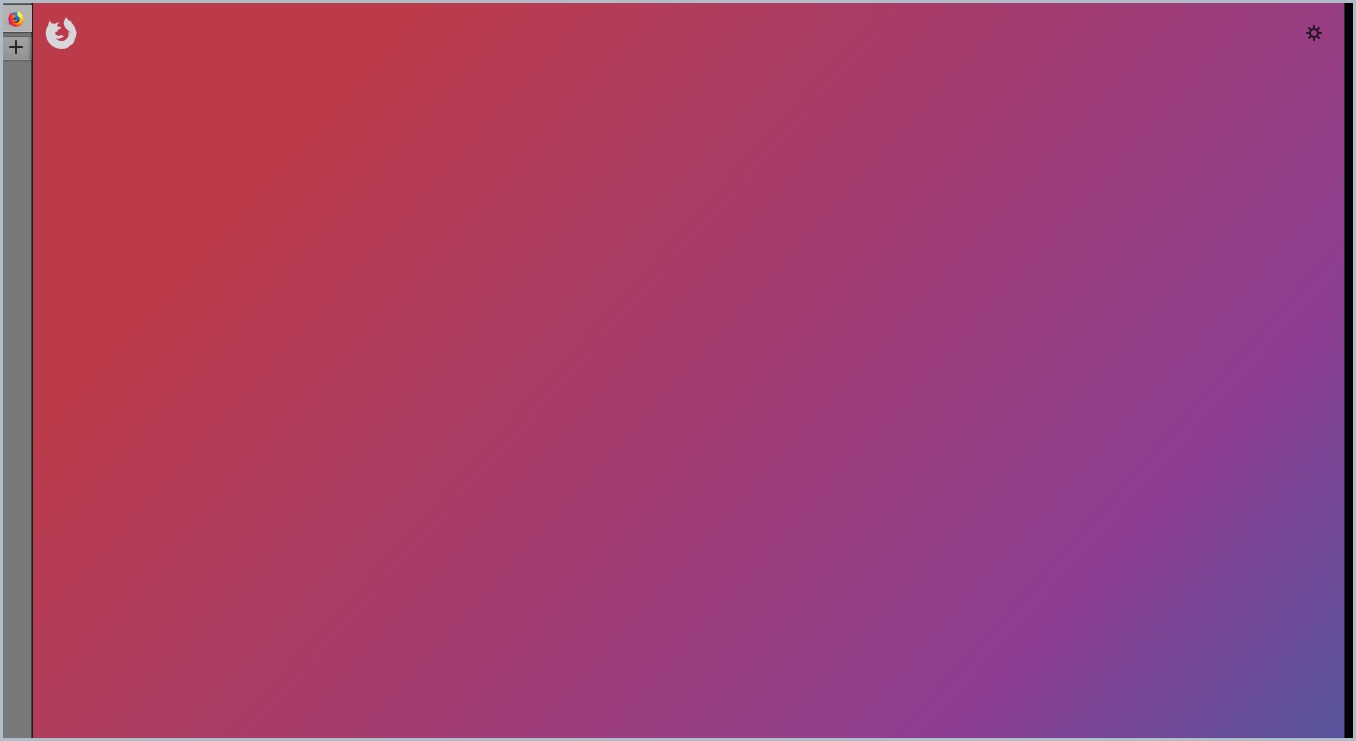
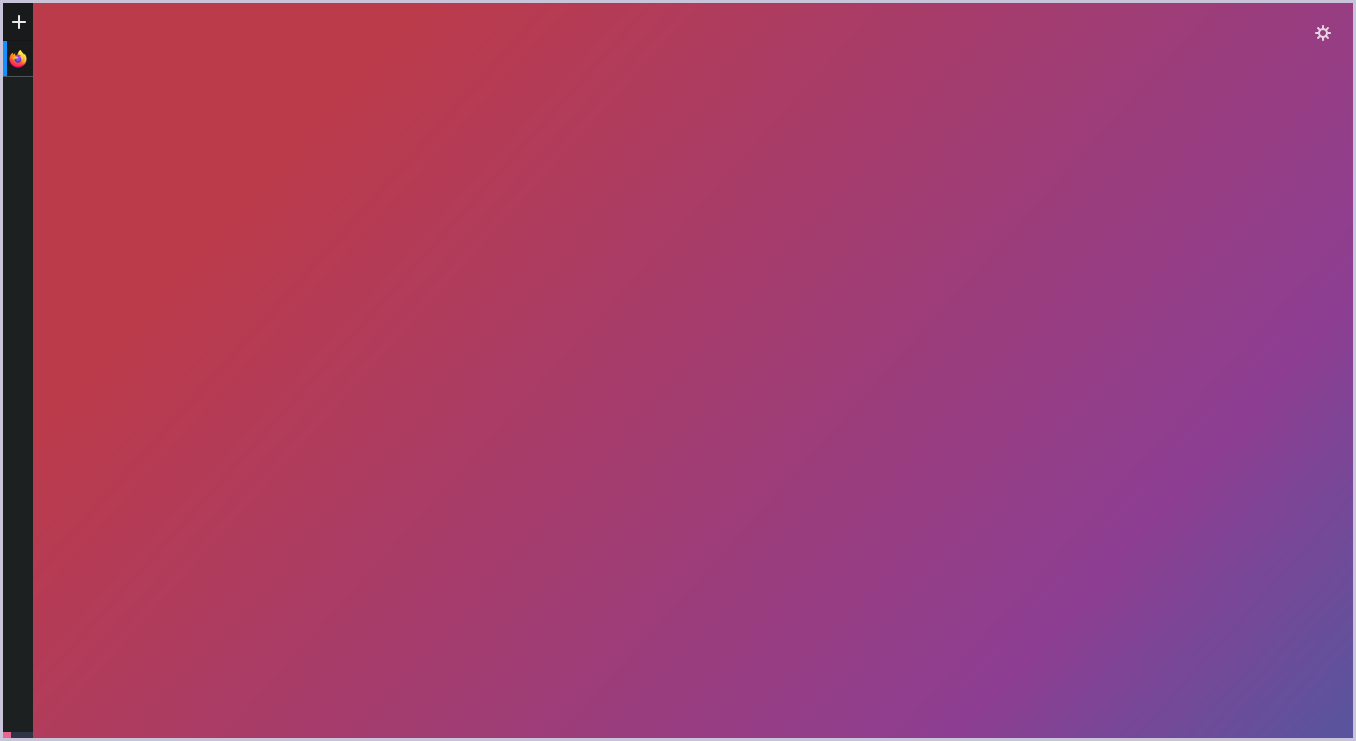
some firefox changes

Changed region(s): [[0.0, 0.0, 1.0, 1.0]]

diff --git a/firefox/userChrome.css b/firefox/userChrome.css
@@ -1,13 +1,15 @@
-@namespace url("http://www.mozilla.org/keymaster/gatekeeper/there.is.only.xul");
-
-/* Hide main tabs toolbar */
+@import url('file:///home/lll2yu/.cache/wal/colors.css');
 
 #main-window[tabsintitlebar="true"]:not([extradragspace="true"]) #TabsToolbar {
   opacity: 0;
   pointer-events: none;
 }
 
-#main-window:not([tabsintitlebar="true"]) #TabsToolbar {
+browser {
+  background-color: var(--color0) !important;
+}
+
+#main-window:not([tabsintitlebar="false"]) #TabsToolbar {
   visibility: collapse !important;
 }
 
@@ -20,14 +22,14 @@
 
 /* Hide splitter, when using Tree Style Tab. */
 
-#sidebar-box[sidebarcommand="treestyletab_piro_sakura_ne_jp-sidebar-action"] + #sidebar-splitter {
+#sidebar-box + #sidebar-splitter {
   display: none !important;
 }
 
 /* Hide sidebar header, when using Tree Style Tab. */
 
-#sidebar-box[sidebarcommand="treestyletab_piro_sakura_ne_jp-sidebar-action"] #sidebar-header {
-  visibility: collapse;
+#sidebar-header {
+  display: none;
 }
 
 /* Shrink sidebar until hovered, when using Tree Style Tab. */
@@ -37,59 +39,96 @@
   --wide-tab-width: 200px;
 }
 
-#sidebar-box:not([sidebarcommand="treestyletab_piro_sakura_ne_jp-sidebar-action"]) {
-  min-width: var(--wide-tab-width) !important;
-  max-width: none !important;
-}
-
-#sidebar-box[sidebarcommand="treestyletab_piro_sakura_ne_jp-sidebar-action"] {
+#sidebar-box {
+  overflow: hidden;
   position: relative !important;
-  transition: all 100ms !important;
+  transition: all 0.2s ease !important;
   min-width: var(--thin-tab-width) !important;
   max-width: var(--thin-tab-width) !important;
+  z-index: 2;
 }
 
-#sidebar-box[sidebarcommand="treestyletab_piro_sakura_ne_jp-sidebar-action"]:hover {
+#sidebar-box:hover {
   transition: all 200ms !important;
   min-width: var(--wide-tab-width) !important;
   max-width: var(--wide-tab-width) !important;
   margin-right: calc((var(--wide-tab-width) - var(--thin-tab-width)) * -1) !important;
 }
 
-statuspanel[type="overLink"] {
-  display: none !important;
+#main-window[inFullscreen][inDOMFullscreen] #appcontent {
+  margin-left: 0;
 }
 
-#TabsToolbar {
-  visibility: collapse;
+#main-window[inFullscreen] #sidebar {
+  height: 100vh;
 }
 
-:root:not([customizing]) #navigator-toolbox:not(:hover):not(:focus-within) {
-  max-height: 0;
-  min-height: calc(0px);
+#browser vbox#appcontent tabbrowser,
+#content,
+#tabbrowser-tabpanels,
+browser[type=content-primary],
+browser[type=content] > html {
+  background: var(--color0) !important;
 }
 
-:root:not([customizing]) #navigator-toolbox:not(:hover):not(:focus-within) #nav-bar {
-  max-height: 0;
-  min-height: 0!important;
-  --tridactyl-auto-show-zone: 10px;
-  margin-bottom: calc(-1 * var(--tridactyl-auto-show-zone));
+/* Source file https://github.com/MrOtherGuy/firefox-csshacks/tree/master/chrome/autohide_toolbox.css made available under Mozilla Public License v. 2.0
+See the above repository for updates as well as full license text. */
+
+/* Hide the whole toolbar area unless urlbar is focused or cursor is over the toolbar */
+
+@media (-moz-os-version: windows-win10){
+
+  :root[tabsintitlebar][sizemode="maximized"]:not([inDOMFullscreen]) > body > box{ margin-top: 10px !important; }
+  :root[tabsintitlebar][sizemode="maximized"] #navigator-toolbox{ margin-top: -2px }
+
+  @media screen and (min-resolution: 1.25dppx){
+    :root[tabsintitlebar][sizemode="maximized"]:not([inDOMFullscreen]) > body > box{ margin-top: 9px !important; }
+  }
+  @media screen and (min-resolution: 1.5dppx){
+    :root[tabsintitlebar][sizemode="maximized"]:not([inDOMFullscreen]) > body > box{ margin-top: 8px !important; }
+    :root[tabsintitlebar][sizemode="maximized"] #navigator-toolbox{ margin-top: -1px }
+  }
+  @media screen and (min-resolution: 2dppx){
+    :root[tabsintitlebar][sizemode="maximized"]:not([inDOMFullscreen]) > body > box{ margin-top: 7px !important; }
+  }
+}
+
+:root[sizemode="fullscreen"]{ margin-top: 0px !important; }
+
+#navigator-toolbox{
+  position: fixed !important;
+  display: block;
+  background-color: var(--lwt-accent-color,black) !important;
+  transition: transform 82ms 33ms linear, opacity 82ms 33ms linear !important;
+  transform-origin: top;
+  line-height: 0;
+  z-index: 1;
+  pointer-events: none;
+}
+
+#navigator-toolbox > *{ line-height: normal; pointer-events: auto }
+
+#navigator-toolbox,
+#navigator-toolbox > *{
+  width: 100vw;
+  -moz-appearance: none !important;
+}
+
+#navigator-toolbox:not(:focus-within):not(:hover){
+  transform: rotateX(86deg); /* This may need to be lower in osx - like 75 or so */
   opacity: 0;
 }
 
-#navigator-toolbox::after {
-  display: none !important;
+:root[sizemode="maximized"] #navigator-toolbox:not(:focus-within):not(:hover){ transform: rotateX(89.5deg) }
+
+/* Don't apply transform before window has been fully created */
+:root:not([sessionrestored]) #navigator-toolbox{ transform:none !important }
+
+:root[customizing] #navigator-toolbox{
+  position: relative !important;
+  transform: none !important;
+  opacity: 1 !important;
 }
 
-#titlebar {
-  display: none !important;
-}
-
-#navigator-toolbox:not(:hover):not(:focus-within) #toolbar-menubar > * {
-  background-color: rgb(232, 232, 231);
-}
-
-statuspanel[type="overLink"],
-#statuspanel[type="overLink"] {
-  display: none !important;
-}
+#navigator-toolbox[inFullscreen] > #PersonalToolbar,
+#PersonalToolbar[collapsed="true"]{ display: none }

diff --git a/firefox/userContent.css b/firefox/userContent.css
@@ -1,11 +1,45 @@
+@namespace url("http://www.w3.org/1999/xhtml");
+@import url('file:///home/lll2yu/.cache/wal/colors.css');
+:root{
+    scrollbar-color: #E8678E #2E3645 !important;
+    scrollbar-width: thin !important;
+}
+* {
+    scrollbar-width: thin !important;
+}  
+
 @-moz-document regexp("moz-extension://.+/resources/group-tab.html.*") {
   :root {
     background: red !important;
   }
 }
 
+body.loaded.dark {
+	  color: var(--foreground) !important;
+	    background-color: var(--background) !important;
+	    
+}
+
+body.loaded.dark h1 {
+	  color: var(--color1) !important;
+	  
+}
+
+body.loaded.dark h2, body.loaded.dark h3, body.loaded.dark h4, body.loaded.dark h5, body.loaded.dark h6 {
+	  color: var(--color4) !important;
+	  
+}
+
+body.loaded.dark strong {
+	  color: var(--color5) !important;
+	  
+}
+
 @-moz-document url("about:home"),
-url("about:newtab") {
+url("about:newtab"),
+url(moz-extension://e9518bb3-7ffc-4260-bdc8-c62be69fbc68/redirect.html), 
+url(moz-extension://67af9bc8-7ba8-4477-9afa-924b0139681a/html/newtab.html)
+{
     .search-wrapper,
     .tile {
         box-shadow: 0 19px 38px rgba(0, 0, 0, 0.30), 0 15px 12px rgba(0, 0, 0, 0.22) !important;
@@ -14,7 +48,7 @@ url("about:newtab") {
         border-radius: 15px !important;
         box-shadow: 0 19px 38px rgba(0, 0, 0, 0.30), 0 15px 12px rgba(0, 0, 0, 0.22) !important;
     }
-    html {
+    html:not(#ublock0-epicker), html:not(#ublock0-epicker) body, #newtab-customize-overlay {
         height: 100% !important
     }
     body {
@@ -37,3 +71,5 @@ url("about:newtab") {
         color: white !important;
     }
 }    
+
+

diff --git a/.config/spicetify/Themes/Pywal/user.css b/.config/spicetify/Themes/Pywal/user.css
@@ -29,8 +29,8 @@
 
 /*Thinner scrollbar*/
 ::-webkit-scrollbar {
-	height: 6px !important;
-	width: 6px !important;
+	height: 0px !important;
+	width: 0px !important;
 	background-color: transparent;
 }
 

diff --git a/README.md b/README.md
@@ -18,37 +18,8 @@
 #### Desktop
 ![](https://github.com/lll2yu/dotfiles-naavi/raw/master/screenshot.png)
 
-[wallpaper](https://whvn.cc/665945)
-
 #### Firefox
 ![](https://github.com/lll2yu/dotfiles-naavi/raw/master/firefox.png)
-- [TreeStyleTab](https://addons.mozilla.org/en-US/firefox/addon/tree-style-tab/) and
+- [Tab Center Reborn](https://framagit.org/ariasuni/tabcenter-reborn) and
 - [Tridactyl](https://addons.mozilla.org/en-US/firefox/addon/tridactyl-vim/?src=external-github) Extensions are used for this setup.
 
-#### Vim
-![](https://github.com/lll2yu/dotfiles-naavi/raw/master/vim.png)
-
-## Details
-- **Operating System :** Arch Linux
-- **Graphical Server :** Xorg
-- **Video Driver :** nvidia-dkms
-- **Display Manager :** [ly](https://github.com/cylgom/ly)
-- **Window Manager** : Bspwm
-- **Panel :** Polybar
-- **Wallpaper Handler :** feh
-- **Program Launcher** : Rofi
-- **File Manager :** ranger
-- **Image Viewer :** sxiv
-- **Screenshooter :** maim
-- **Web Browser :** Firefox
-- **Terminal :** URxvt
-- **Terminal Font :** Fira Code
-- **CLI Text Editor :** Neovim
-- **CLI Music Player :** Moc
-- **Multimedia Player :** Mpv
-- **PDF Reader :** Zathura
-- **GTK Theme :** Wal (with colorsheme generated using pywal)
-- **GTK Icons :** Flat Remix
-- **GTK Font :** Fira Sans
-- **CLI Shell :** Zsh
-- **Notification Daemon :** Dunst

diff --git a/.config/spicetify/Themes/Pywal/Readme.md b/.config/spicetify/Themes/Pywal/Readme.md
@@ -1,0 +1,15 @@
+# Pywal Theme 
+
+{based off of [Nord](https://github.com/morpheusthewhite/spicetify-themes/tree/master/Nord) Theme in spicetify-themes-git}
+
+
+## Screenshots
+![Example 1](https://i.imgur.com/5qCEHiW.png)
+![Example 2](https://i.imgur.com/MdIgmNC.png)
+![Example 3](https://i.imgur.com/9qrHm8o.png)
+
+## More
+
+Based on the excellent [Nord](https://github.com/arcticicestudio/nord) color scheme. The `user.css` has been slightly modified to disable scrollbars.
+
+
